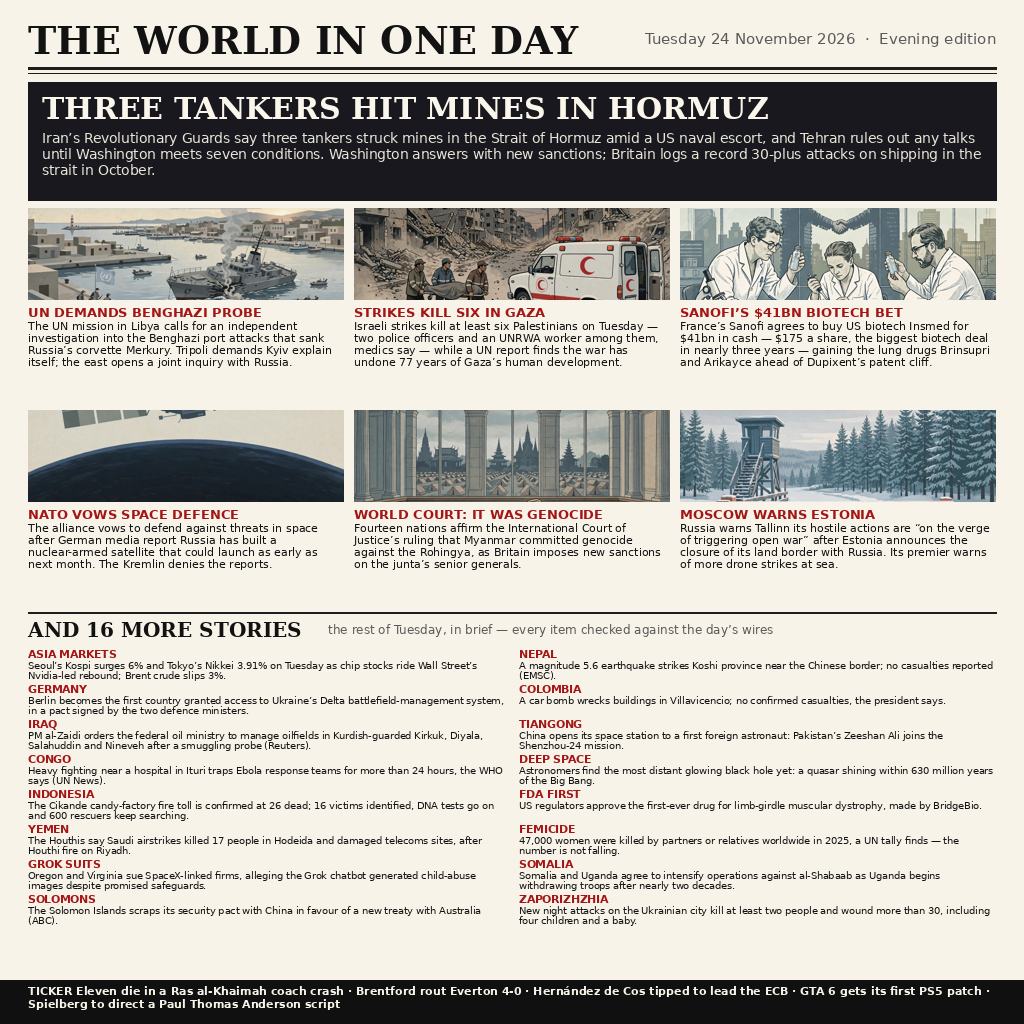
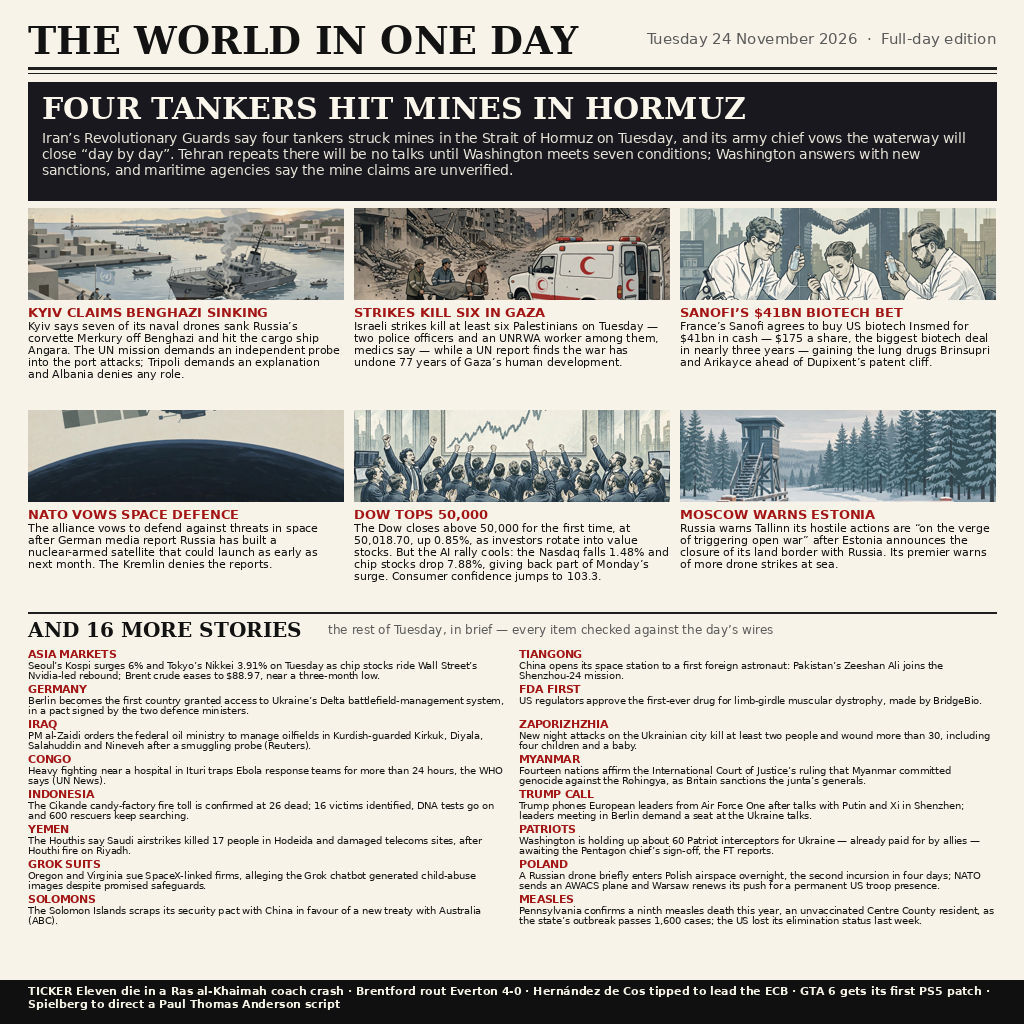
v2: full-day edition — four tankers headline, Dow 50,000 card, updated briefs

diff --git a/main.ts b/main.ts
@@ -3,20 +3,24 @@
 //
 // The poster shipped next to this file (entry.png — PNG bytes, 1024x1024)
 // compresses Tuesday 24 November 2026 into one 1024x1024 front page of 28
-// stories: a lead on three tankers hitting mines in the Strait of Hormuz
-// as Iran rules out talks until Washington meets seven conditions; six
-// illustrated cards (the UN mission's call for an independent probe into
-// the Benghazi port attacks that sank Russia's corvette Merkury; Tuesday's
-// Gaza strikes and the UN's finding that the war undid 77 years of human
-// development there; Sanofi's $41bn cash deal for Insmed, the biggest
-// biotech takeover in nearly three years; NATO's space-defence vow after
-// reports of a Russian nuclear-armed satellite; fourteen nations affirming
-// the ICJ's Myanmar genocide ruling as Britain sanctions the generals; and
-// Moscow's "open war" warning to Estonia over its border closure),
-// sixteen one-line briefs and a five-item ticker. This is the evening
-// edition (v1): every Tuesday item checked against the day's wires, with
-// Monday's stories (Medvedev's nuclear article, the Nvidia reinstatement)
-// and older ones (the 17 November measles ruling) deliberately left out.
+// stories: a lead on four tankers hitting mines in the Strait of Hormuz
+// as Iran's army chief vows the waterway closes "day by day" and Tehran
+// rules out talks until Washington meets seven conditions; six
+// illustrated cards (Kyiv's claim its naval drones sank Russia's
+// corvette Merkury off Benghazi, with the UN mission's call for an
+// independent probe; Tuesday's Gaza strikes and the UN's finding that
+// the war undid 77 years of human development there; Sanofi's $41bn cash
+// deal for Insmed, the biggest biotech takeover in nearly three years;
+// NATO's space-defence vow after reports of a Russian nuclear-armed
+// satellite; the Dow's first close above 50,000, at 50,018.70, as the
+// Nasdaq fell 1.48% and chip stocks dropped 7.88%; and Moscow's "open
+// war" warning to Estonia over its border closure), sixteen one-line
+// briefs and a five-item ticker. This is the full-day edition (v2):
+// every Tuesday item checked against the day's wires, with Monday's
+// stories (Medvedev's nuclear article, the Nvidia reinstatement, the
+// ninth Pennsylvania measles death's announcement context) and older
+// ones (the 17 November measles ruling, the 7 November Gaza floods)
+// deliberately left out except where a fresh Tuesday angle exists.
 // The count follows the series' verified sweet spot: in earlier rounds a
 // 27–28-story edition outscored denser ones.
 //

diff --git a/README.md b/README.md
@@ -4,7 +4,7 @@
 [![rank](https://make.fun/badge/news-image-20261124/lkapi0819-cli/news-image-20261124/rank.svg)](https://make.fun/bounty/news-image-20261124/leaderboard?utm_source=github&utm_medium=readme&utm_campaign=news-image-20261124)
 [![reward](https://make.fun/badge/news-image-20261124/lkapi0819-cli/news-image-20261124/reward.svg)](https://make.fun/bounty/news-image-20261124?utm_source=github&utm_medium=readme&utm_campaign=news-image-20261124)
 
-"The World in One Day" — a high-density front-page poster summing up Tuesday 24 November 2026 in one 1024×1024 image with 28 stories: Iran's Revolutionary Guards saying three tankers struck mines in the Strait of Hormuz amid a US naval escort, Tehran ruling out any talks until Washington meets seven conditions, new US sanctions, and Britain logging a record 30-plus attacks on shipping in the strait in October; the UN mission in Libya demanding an independent investigation into the Benghazi port attacks that sank Russia's corvette Merkury, with Tripoli demanding Kyiv explain itself; Israeli strikes killing at least six Palestinians on Tuesday as a UN report finds the war has undone 77 years of Gaza's human development; Sanofi's $41bn cash takeover of Insmed — $175 a share, the biggest biotech deal in nearly three years; NATO's vow to defend against threats in space after reports of a Russian nuclear-armed satellite, which the Kremlin denies; fourteen nations affirming the International Court of Justice's ruling that Myanmar committed genocide against the Rohingya as Britain sanctions the junta's generals; and Moscow warning Estonia its actions are "on the verge of triggering open war" after Tallinn announced the closure of its land border with Russia — plus 16 more briefs (Asia's markets surging on the Nvidia rebound, Germany's first-in-line access to Ukraine's Delta battlefield system, Iraq's oilfield order, Ebola teams trapped by fighting in Ituri, the Cikande factory toll confirmed at 26, Houthi claims of 17 dead in Hodeida, Oregon and Virginia suing SpaceX-linked firms over Grok, the Solomon Islands dropping its China pact, a Nepal earthquake, a Villavicencio car bomb, China's first foreign astronaut aboard Tiangong, the most distant black hole yet, the FDA's first limb-girdle muscular dystrophy drug, the UN's 47,000 femicide tally, Somalia and Uganda stepping up against al-Shabaab, and new night attacks on Zaporizhzhia) and a five-item ticker led by the Ras al-Khaimah coach crash. This is the evening edition (v1): every item checked against Tuesday's wires, with Monday's stories deliberately excluded. The poster was composed from six AI-illustrated panels with a Python/Pillow layout script; `main.ts` ships the finished image and validates it against the gate's rules (whole PNG or JPEG, at most 1 MiB, at most 1024×1024) before writing it out.
+"The World in One Day" — a high-density front-page poster summing up Tuesday 24 November 2026 in one 1024×1024 image with 28 stories: Iran saying four tankers struck mines in the Strait of Hormuz on Tuesday, its army chief vowing the waterway will close "day by day", Tehran ruling out any talks until Washington meets seven conditions, new US sanctions on Iran's shadow banking, and maritime agencies saying the mine claims are unverified; Kyiv saying seven of its naval drones sank Russia's corvette Merkury off Benghazi and hit the cargo ship Angara, with the UN mission demanding an independent investigation and Tripoli demanding an explanation; Israeli strikes killing at least six Palestinians on Tuesday as a UN report finds the war has undone 77 years of Gaza's human development; Sanofi's $41bn cash takeover of Insmed — $175 a share, the biggest biotech deal in nearly three years; NATO's vow to defend against threats in space after reports of a Russian nuclear-armed satellite, which the Kremlin denies; the Dow's first close above 50,000 (50,018.70, up 0.85%) as the Nasdaq fell 1.48% and chip stocks dropped 7.88%; and Moscow warning Estonia its actions are "on the verge of triggering open war" after Tallinn announced the closure of its land border with Russia — plus 16 more briefs (Asia's markets surging on the Nvidia rebound, Germany's first-in-line access to Ukraine's Delta battlefield system, Iraq's oilfield order, Ebola teams trapped by fighting in Ituri, the Cikande factory toll confirmed at 26, Houthi claims of 17 dead in Hodeida, Oregon and Virginia suing SpaceX-linked firms over Grok, the Solomon Islands dropping its China pact, China's first foreign astronaut aboard Tiangong, the FDA's first limb-girdle muscular dystrophy drug, new night attacks on Zaporizhzhia, fourteen nations affirming the ICJ's Myanmar genocide ruling, Trump's Air Force One call to European leaders, Washington holding up 60 Patriot interceptors for Ukraine, a Russian drone's second incursion into Polish airspace, and Pennsylvania's ninth measles death) and a five-item ticker led by the Ras al-Khaimah coach crash. This is the full-day edition (v2): every item checked against Tuesday's wires, with Monday's stories deliberately excluded. The poster was composed from six AI-illustrated panels with a Python/Pillow layout script; `main.ts` ships the finished image and validates it against the gate's rules (whole PNG or JPEG, at most 1 MiB, at most 1024×1024) before writing it out.
 
 ## Run it
 
@@ -14,7 +14,7 @@ mkdir -p out && MAKEFUN_OUTPUT_DIR=out node main.ts
 
 The program runs offline with the Node 22 standard library only, runs twice in grading, and must write identical bytes both times — it does, because it copies the shipped poster untouched after checking its magic bytes, its size and (for JPEG) its pixel dimensions.
 
-Stories are drawn from the full day's reporting of 24 November 2026, cross-checked against the day's wires and same-day reporting: UN News on the UNSMIL probe call and the Ituri fighting, Reuters on the Iraq oilfield order and Gaza casualties, Sanofi's own release on the $41bn Insmed deal, the BBC on NATO's space-defence vow, Xinhua and Banten police on the confirmed Cikande toll of 26, the Kyiv Independent on Germany's Delta access, and ABC on the Solomon Islands' treaty switch.
+Stories are drawn from the full day's reporting of 24 November 2026, cross-checked against the day's wires and same-day reporting: UN News on the UNSMIL probe call and the Ituri fighting, Reuters on the Iraq oilfield order and Gaza casualties, Sanofi's own release on the $41bn Insmed deal, the BBC on NATO's space-defence vow, Xinhua and Banten police on the confirmed Cikande toll of 26, the Kyiv Independent on Germany's Delta access, ABC on the Solomon Islands' treaty switch, the Financial Times on the Patriot hold-up, NATO on the AWACS deployment, and the Pennsylvania Department of Health on the ninth measles death.
 
 ---
 
